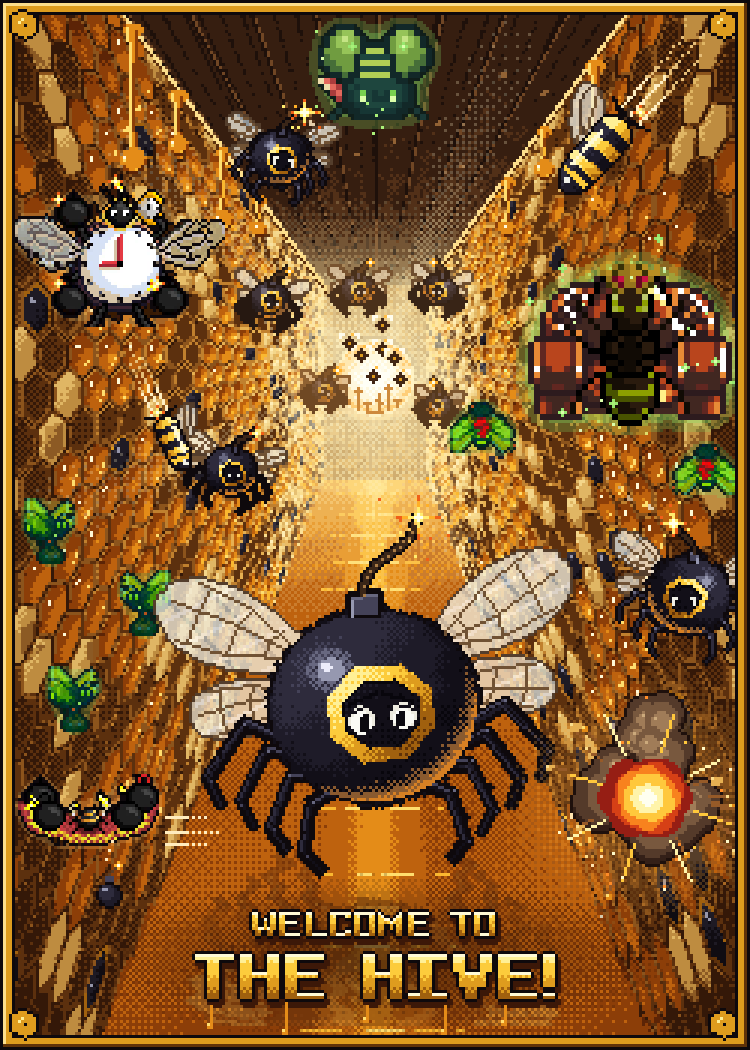
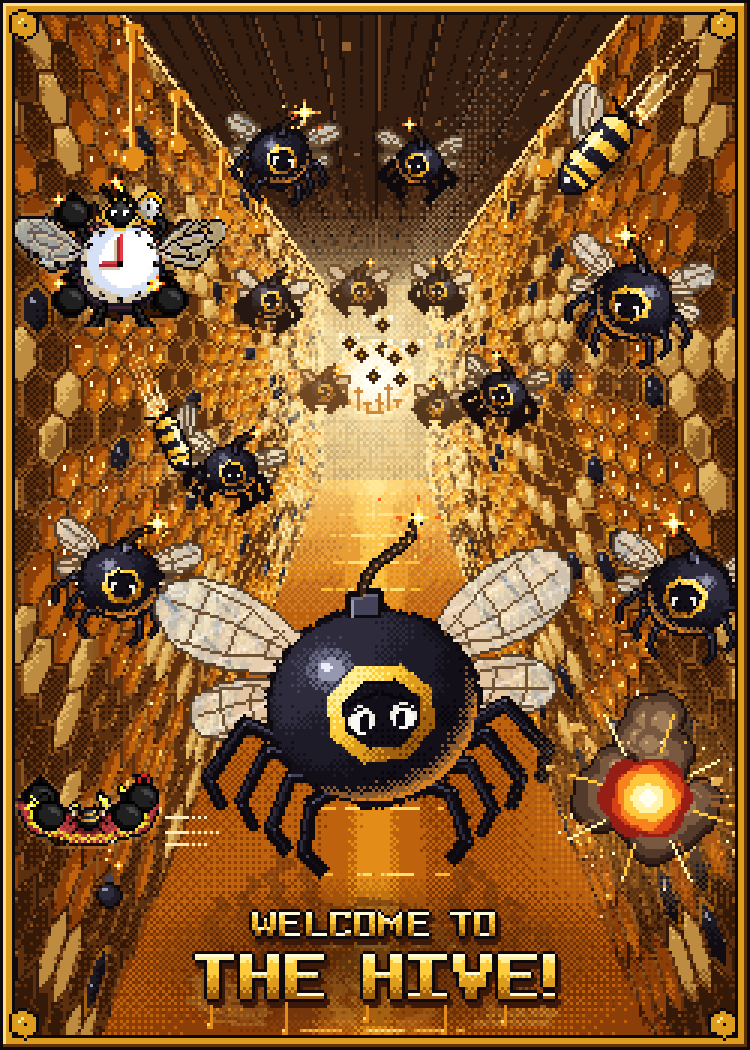
Welcome to the Hive: Sparkflies wieder entfernt, Lücken mit Bomblebees gefüllt
Claude-Session: https://claude.ai/code/session_01QU6zaF1CRhUbwqrjdbxehJ

diff --git a/scripts/sleeve-entwuerfe/s09_bees.py b/scripts/sleeve-entwuerfe/s09_bees.py
@@ -1,8 +1,7 @@
 # -*- coding: utf-8 -*-
 """09 Bomblebee-Wabe „Welcome to the Hive!“: Flug durch einen Wabengang im Bienenstock, dem Licht des Fluglochs entgegen.
 Waben, Honig, Bomblebees und Dive Bomblebees sind direkt in 1x-Leinwandpixeln gezeichnet (nach den Kartenbildern).
-Time Bomblebee, Carpet Bomblebee sowie Sparkfly Worker/Attendant sind aus den nativen Kartenpixeln (native()) ausgeschnitten,
-die Sparkfly Queen stammt aus dem Shop-Avatar, die Sparkfly Architect ist Pixel für Pixel nach der Karte nachgesetzt."""
+Time Bomblebee und Carpet Bomblebee sind aus den nativen Kartenpixeln (native()) ausgeschnitten."""
 from lib import *
 
 SQ3 = math.sqrt(3)
@@ -417,19 +416,6 @@ def _bg_nature(a):
     return blue | brown | grass
 
 
-def _bg_comb(a):
-    """Sparkfly-Karten: heller Wabenhintergrund; Figuren sind grün/dunkelgrün (+ rot)."""
-    r, g, b = a[..., 0], a[..., 1], a[..., 2]
-    L = a[..., :3].mean(2)
-    fig = ((g - r > 10) & (L < 172)) | ((r - g > 50) & (r > 150) & (b < 120))
-    return ~fig
-
-
-def _revive(img, contrast=1.45, sat=1.5, bright=0.92):
-    """Die Sparkfly-Karten liegen unter einem hellen Schleier – Farben wieder kräftig machen."""
-    return adjust(img, bright=bright, contrast=contrast, sat=sat)
-
-
 def time_bomblebee():
     s_ = _cardcut('Time Bomblebee', (0, 0, 76, 51), _bg_nature, nkeep=6)
     a_ = np.array(s_).astype(int)
@@ -457,52 +443,6 @@ def carpet_bomblebee():
     a_[pink | grn, 3] = 0
     out = keep_largest(Image.fromarray(a_.astype(np.uint8)), 1)
     return out.crop(out.getbbox())
-
-
-def sparkfly(name, box):
-    s_ = _cardcut(name, box, _bg_comb)
-    return _revive(s_)
-
-
-def sparkfly_queen():
-    q = Image.open(os.path.join(ROOT, 'data', 'shop', 'avatars', 'SparkflyQueen.png')).convert('RGBA')
-    a_ = np.array(q)[20::40, 20::40].copy()
-    out = Image.fromarray(a_)
-    return out.crop(out.getbbox())
-
-
-ARCH_PAL = {'k': (18, 40, 40), 'd': (30, 70, 62), 'D': (22, 54, 52), 'g': (112, 156, 64), 'G': (150, 196, 88),
-            'h': (196, 228, 132), 'w': (70, 110, 56), 'y': (176, 206, 84), 'e': (120, 210, 80), 'E': (220, 255, 170),
-            'r': (170, 60, 60), 'R': (226, 104, 92), 'l': (26, 56, 54), 'p': (236, 220, 170)}
-ARCH_MAP = [
-    "...kkk.......kkk....",
-    "..kgGGk.....kGGgk...",
-    ".kgGhGgk...kgGhGgk..",
-    ".kgGGGgkkkkkgGGGgk..",
-    "kgggGGgkyyykgGGgggk.",
-    "kwggggkdddddkggggwk.",
-    "kwwgggkyyyyykgggwwk.",
-    ".kwwggkdddddkggwwk..",
-    "..kkwkkyyyyykkwkk...",
-    "pRr.kkdddddddkk.....",
-    ".pRrkdDdddddddDk....",
-    "..rRkDdedDdDedDk....",
-    "...rkDdEdDDDEdDk....",
-    "....kkDDdddddDkk....",
-    "...l.kkDDDDDDkk.l...",
-    "..l...kkkkkkkk...l..",
-]
-
-
-def sparkfly_architect():
-    h_, w_ = len(ARCH_MAP), len(ARCH_MAP[0])
-    a_ = np.zeros((h_, w_, 4), np.uint8)
-    for y_, row in enumerate(ARCH_MAP):
-        for x_, ch in enumerate(row):
-            if ch in ARCH_PAL:
-                a_[y_, x_, :3] = ARCH_PAL[ch]; a_[y_, x_, 3] = 255
-    return Image.fromarray(a_)
-
 
 # ============================================================ Szene: Wabengang im Bienenstock
 VPX, VPY, F = 125.0, 118.0, 118.0
@@ -672,10 +612,11 @@ BR = 0.1
 swarm3d = [
     (0.1, -0.12, 6.4, 0, False, 0),
     (-0.22, 0.02, 5.7, 0, False, 0), (0.26, 0.06, 5.4, 0, True, 0), (-0.05, 0.3, 5.0, 0, False, 0),
-    (0.3, 0.3, 4.4, 0, True, 0), (-0.32, -0.14, 4.0, 0, False, 0), (0.05, -0.3, 3.7, 0, False, 0),
+    (0.3, 0.3, 4.4, 0, True, 0), (-0.32, -0.14, 4.0, 0, False, 0), (0.05, -0.3, 3.7, 0, False, 0), (0.36, -0.06, 3.5, 0, True, 0),
     (-0.45, 0.35, 3.2, 8, False, 0.2), (0.5, 0.42, 2.8, -8, True, 0.1), (-0.12, -0.46, 2.6, 4, False, 0.3), (0.42, -0.4, 2.3, -10, True, 0.2),
     (-0.58, -0.3, 2.0, 10, False, 0.1), (-0.6, 0.5, 1.5, 12, False, 0.0), (-0.34, -0.72, 1.3, 6, False, 0.2),
-    (0.8, 0.62, 0.9, -8, True, 0.1),
+    (0.62, 0.2, 1.7, -12, True, 0.3), (0.2, -0.86, 1.6, -6, True, 0.2),
+    (0.8, 0.62, 0.9, -8, True, 0.1), (0.72, -0.14, 0.98, -14, True, 0.4), (-0.74, 0.66, 1.02, 12, False, 0.2),
 ]
 swarm3d.sort(key=lambda s_: -s_[2])
 sparks = []
@@ -738,34 +679,6 @@ def put_sprite(img, spr, xy, glowc=None, ol=None, **kw):
     paste(img, spr, xy)
 
 
-def green_sparks(img, cx, cy, n, rad, seed):
-    rs = random.Random(seed)
-    d_ = ImageDraw.Draw(img)
-    for _ in range(n):
-        a0 = rs.uniform(0, 2 * math.pi); r0 = rs.uniform(rad * 0.4, rad)
-        x_, y_ = cx + math.cos(a0) * r0, cy + math.sin(a0) * r0
-        if rs.random() < 0.3:
-            d_.point([(x_ - 1, y_), (x_ + 1, y_), (x_, y_ - 1), (x_, y_ + 1)], fill=(150, 230, 110))
-        d_.point((x_, y_), fill=rs.choice([(220, 255, 170), (170, 240, 120)]))
-
-
-SPOL = (16, 30, 26, 255)
-# Sparkfly-Königin mit Leibwache an der rechten Wand
-queen = up(sparkfly_queen(), 2)
-QX, QY = 176, 86
-put_sprite(im, queen, (QX, QY), (130, 220, 100, 255), strength=0.55, radius=5)
-green_sparks(im, QX + 34, QY + 28, 22, 44, 7)
-att = sparkfly('Sparkfly Attendant', (28, 24, 50, 44))
-put_sprite(im, att, (150, 134), (130, 220, 100, 255), ol=SPOL)
-put_sprite(im, att.transpose(Image.FLIP_LEFT_RIGHT), (224, 148), (130, 220, 100, 255), ol=SPOL)
-# Arbeiterinnen krabbeln über die linke Wabenwand
-wrk = sparkfly('Sparkfly Worker', (17, 2, 36, 26))
-for (x_, y_, fl_) in [(8, 166, False), (40, 190, True), (16, 222, False)]:
-    put_sprite(im, wrk.transpose(Image.FLIP_LEFT_RIGHT) if fl_ else wrk, (x_, y_), (120, 210, 96, 255), ol=SPOL, strength=0.3)
-# Architektin schwebt unter der Decke
-arch = up(sparkfly_architect(), 2)
-put_sprite(im, arch, (106, 8), (130, 220, 100, 255), ol=SPOL, strength=0.45, radius=4)
-green_sparks(im, 126, 24, 12, 26, 3)
 # Time Bomblebee (groß, nah, links oben)
 tb = time_bomblebee()
 TBX, TBY = 4, 58
